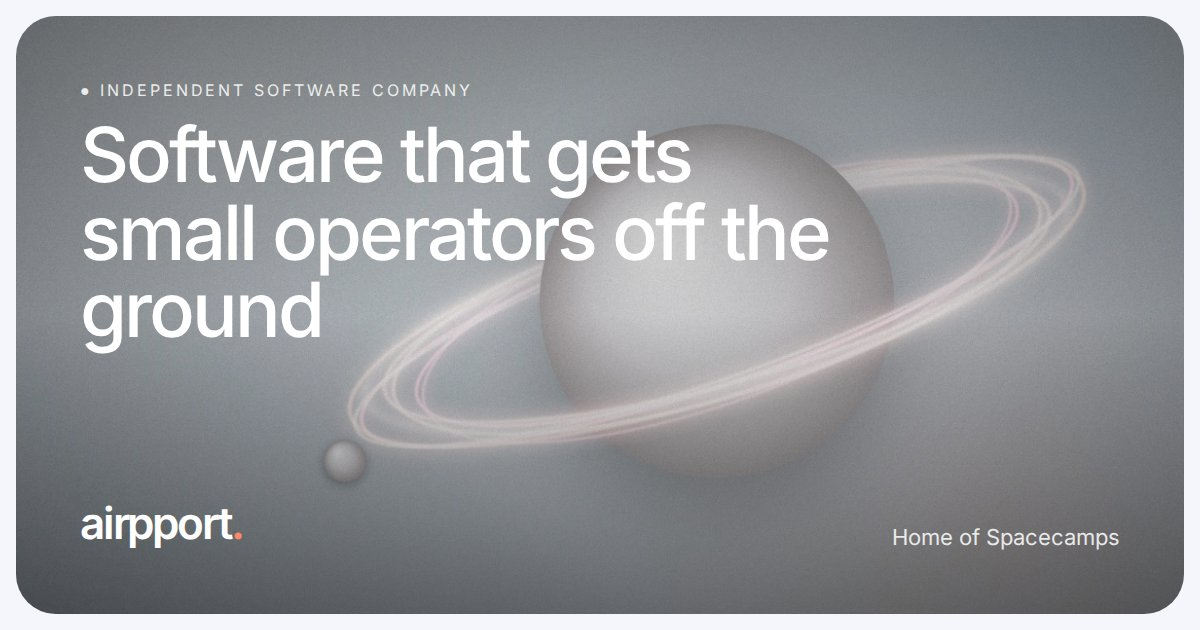
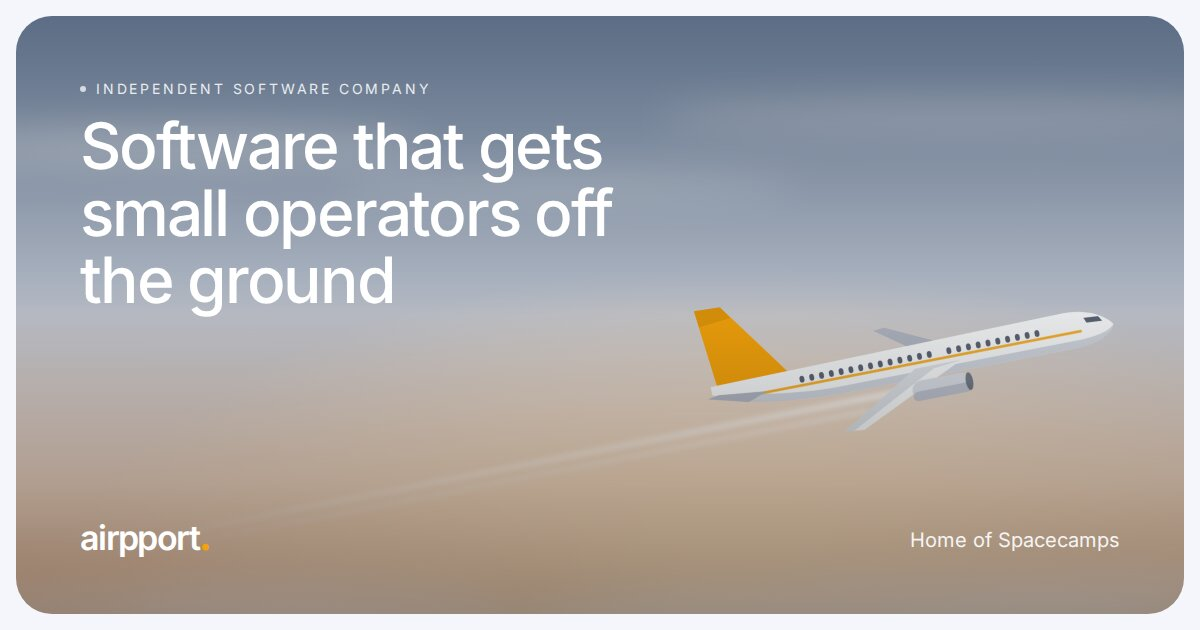
Swap space imagery for airport-themed art and theming
- New illustrations: climbing airliner (home hero, social card), terminal
  window at dusk (about, 404), control tower (FAQ), plus aircraft-window
  and tower thumbnails. Removes the ringed-planet images.
- Logo and favicon: aircraft taking off over an amber runway line instead
  of a ringed planet.
- Brand accent moves from coral to runway-light amber.
- Product 02 card uses a radar sweep instead of an orbiting dot; the
  purple nebula bento tile becomes a dusk apron with runway lights.
- Copy: 'launch pad' becomes 'take off' / 'departure gate'.

Claude-Session: https://claude.ai/code/session_01BF3w9AUXBJRa74grjtufBy

diff --git a/src/styles/global.css b/src/styles/global.css
@@ -26,7 +26,7 @@
   --muted-foreground: #71717a;
   --border: #e4e4e7;
   --hero-bg: #b7bdc1;
-  --brand: #ff8a6b;
+  --brand: #f2a20c;
   color-scheme: light;
 }
 
@@ -39,7 +39,7 @@
   --muted-foreground: #a1a1aa;
   --border: #27272a;
   --hero-bg: #2a2d31;
-  --brand: #ff9d82;
+  --brand: #ffbe3d;
   color-scheme: dark;
 }
 
@@ -81,7 +81,7 @@
   .hero-grain {
     background-image:
       radial-gradient(circle at 30% 40%, #ffffff2e, #0000 60%),
-      radial-gradient(circle at 70% 60%, #ffc8b41f, #0000 60%);
+      radial-gradient(circle at 70% 60%, #ffd9a01f, #0000 60%);
   }
 
   .bg-dots {

diff --git a/src/data/faq.ts b/src/data/faq.ts
@@ -15,7 +15,7 @@ export const faqGroups: FaqGroup[] = [
       {
         question: "Why the name?",
         answer:
-          "An airport is where journeys begin. We want to be the launch pad for small operators — the place where good ideas get off the ground and run smoothly every day after.",
+          "An airport is where journeys begin. We want to be the departure gate for small operators — the place where good ideas get off the ground and run smoothly every day after.",
       },
       {
         question: "Who's behind it?",
